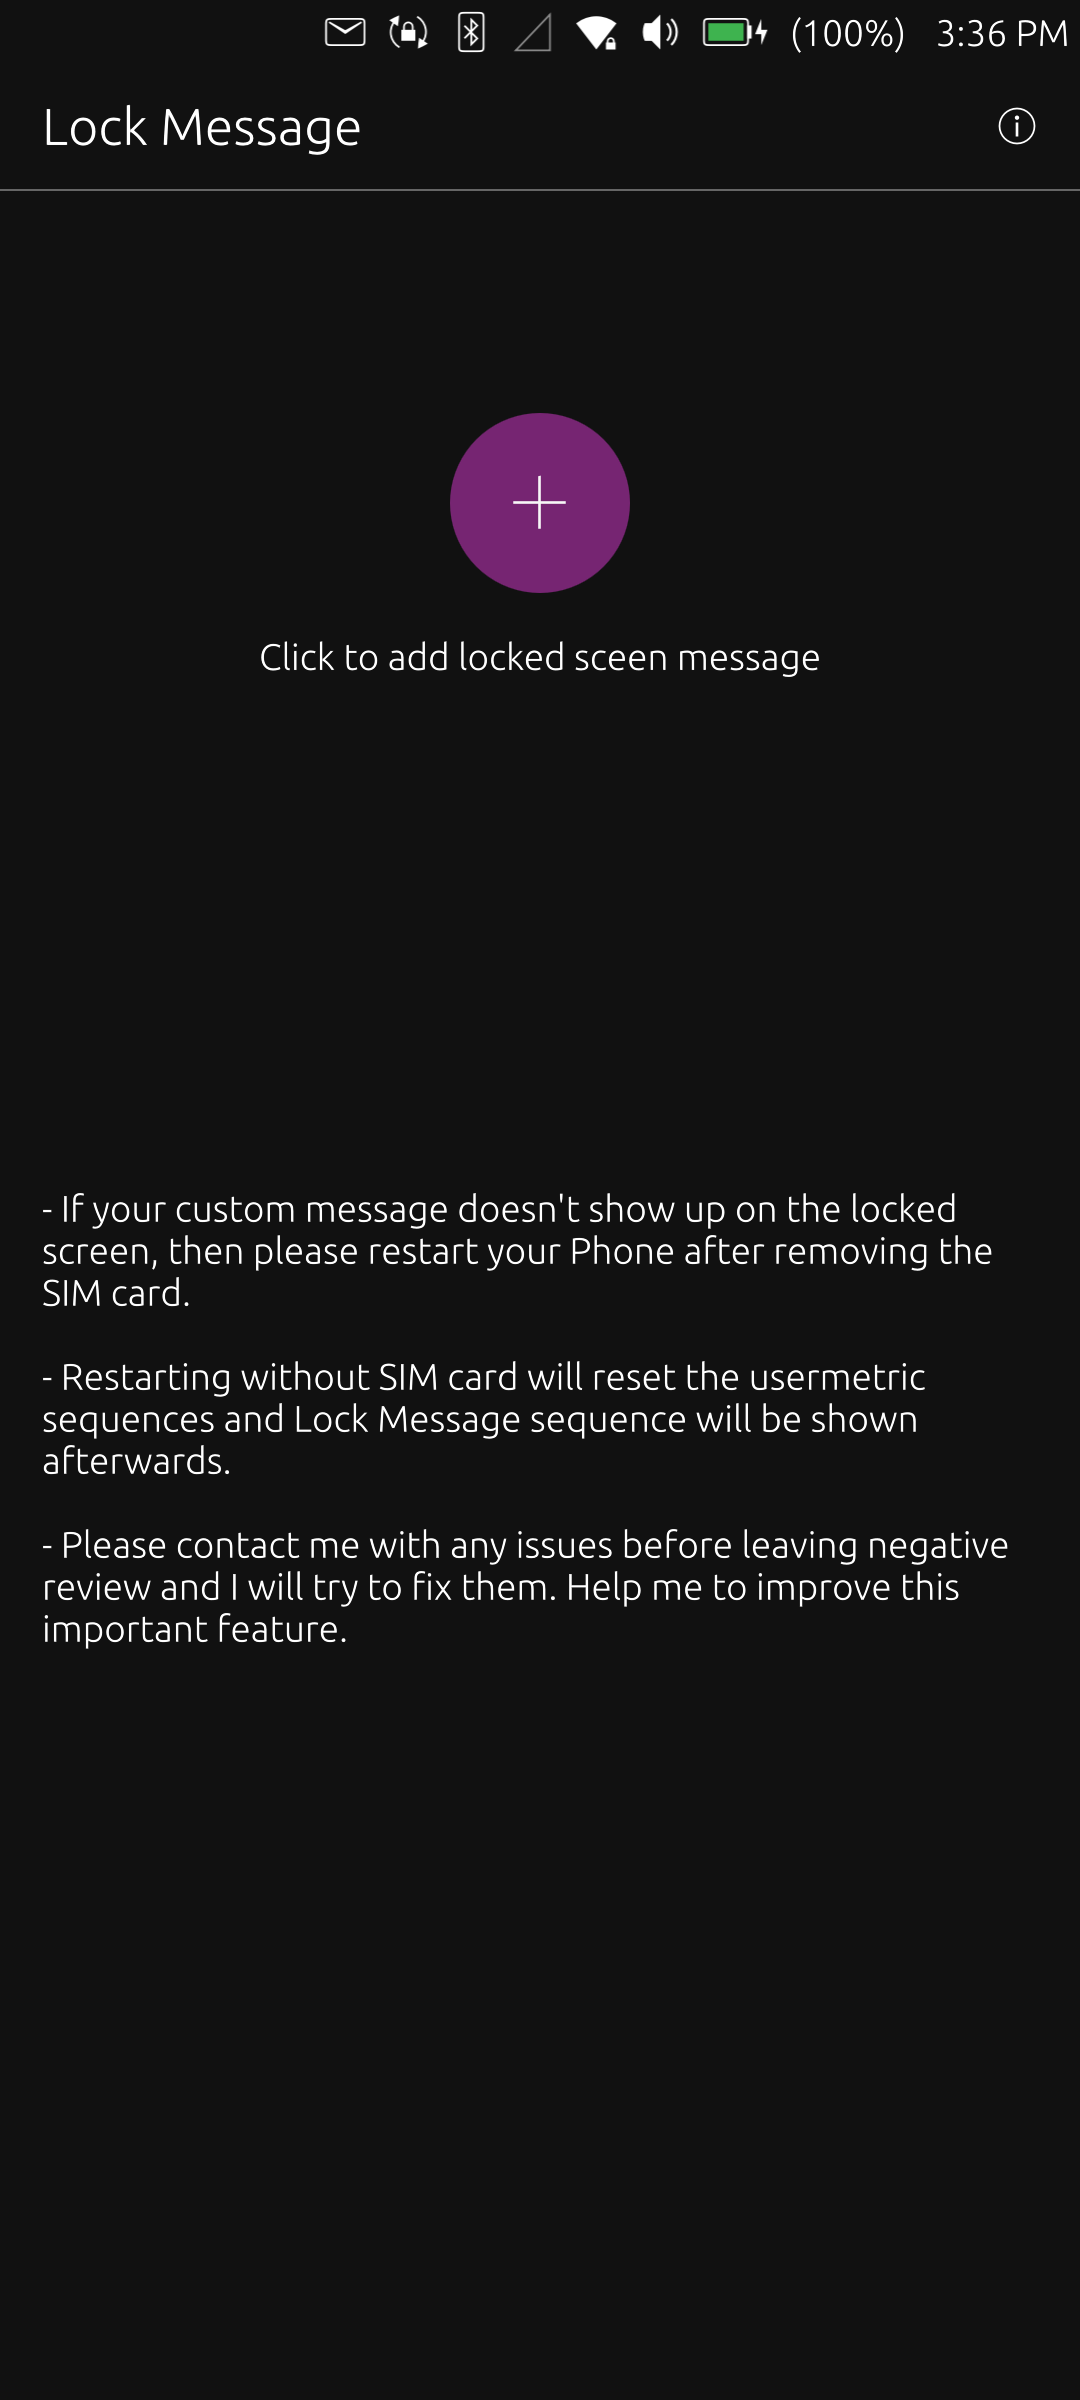
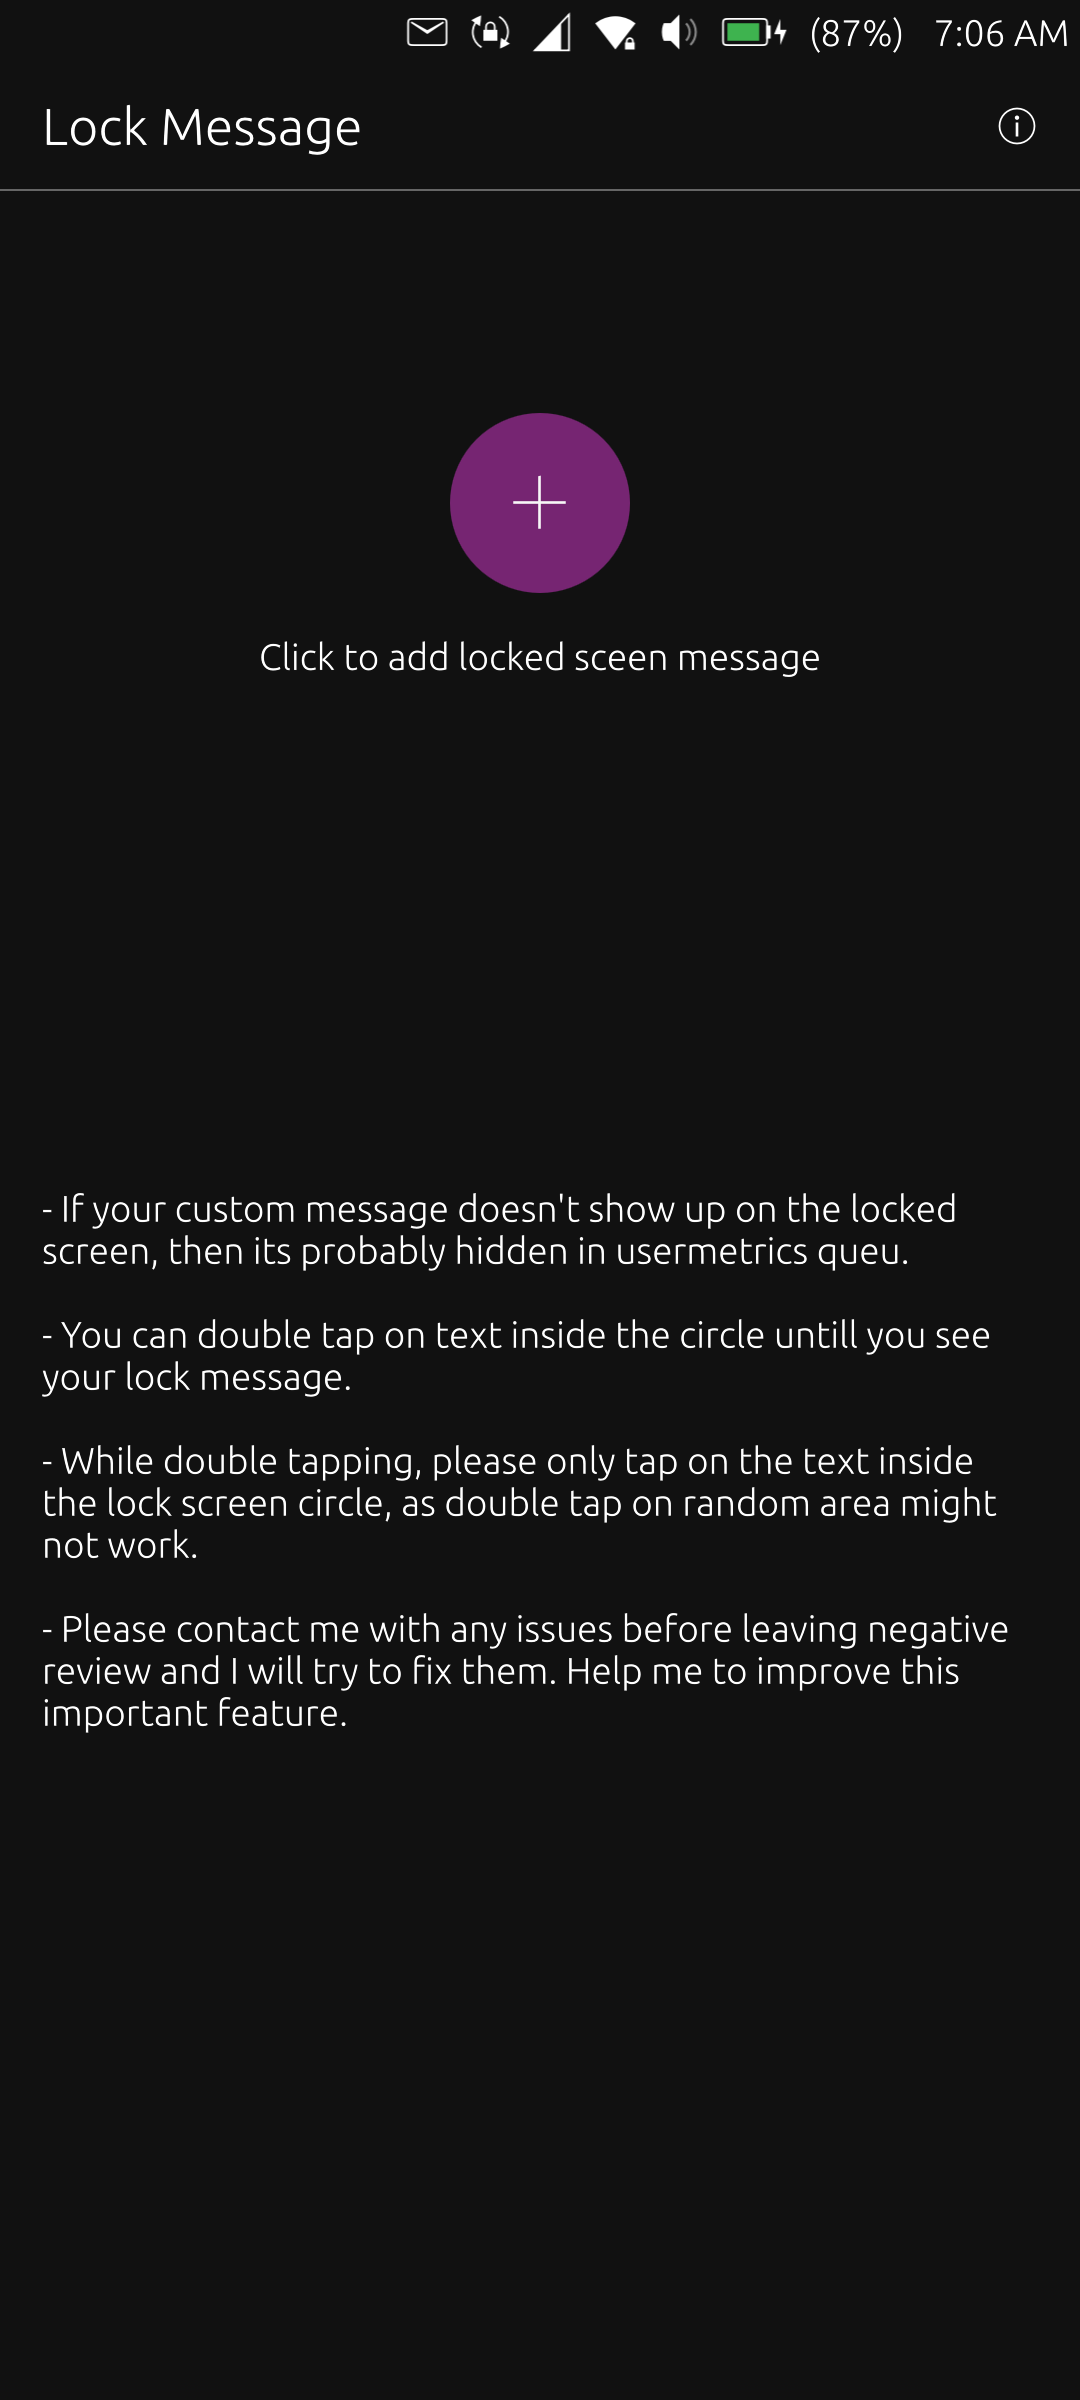
update help content

diff --git a/README.md b/README.md
@@ -10,13 +10,14 @@ We have heavly edited the original version and modified GUI interface. See `git 
 
 ## How to Use?
 
-Install the app from the App Store by following the download link. You will see a circular button with a `+` button in it. Click on it and then add your custom lock message. as shown in the images below. 
+Install the app from the App Store by following the download link. You will see a circular button with a `+` button in it. Click on it and then add your custom lock message as shown in the images below. 
 
 Then click on the green color tick button to add the text. Your custom lock message will be added to the lock screen.
 
-Now check the lock screen of your Ubuntu Phone. You should see your custom lock message there. If you do not see it there, then there may be a display conflict with other user metrics.
+Now check the lock screen of your Ubuntu Phone. You should see your custom lock message there. If you do not see it there, then it is probably hidden in usermetrics queu. 
 
-To clear the other metrics, please restart your mobile phone to clear those metrics. After restart, you should see the custom message on the lock screen circle.
+You can click anywhere on the text inside the circle to toggle the messages untill your locked message is shown up.
+
 
 ## Tests
 
@@ -25,20 +26,6 @@ To clear the other metrics, please restart your mobile phone to clear those metr
 This app helps you write a message that will appear inside Circle on the lock screen. This feature can be useful as you can add custom messages to your UT lock screens.
 
 ![Lock Message Running on Xiaomi Redmi Pro 9 with Ubunut Touch/Liomiri ](assets/composit.png)
-
-## Trouble Shootings
-
-**Question 1: Custom Lock Message is not showing  up on the lcok screen/circl?**
-
-Answer: If your custom message doesn't show up on the locked screen, then please restart your Phone after removing the SIM card.
-
-**Question 2: What happens if you restart Ubunut Touch without SIM Card?**
-
-Answer: Restarting without SIM card will reset the usermetric sequences and Lock Message sequence will be shown afterwards.
-
-**Question 3: Have you noticed unexpected behaviour?**
-
-Please contact me with any issues before leaving negative review and I will try to fix them. Help me to improve this important feature.
 
 
 ## Use Cases
@@ -52,6 +39,11 @@ Some use cases where this can be useful.
 - You can add a custom message for someone who will have custody of your phone e.g. when you are leaving home or if you have temporarily changed the passcode for someone else to log in to your phone.
 
 - ...
+
+## Contact
+
+Please contact me with any issues before leaving negative review and I will try to fix them. Help me to improve this important feature.
+
 
 ## License
 This app is a fork of `Circle Message` created by Michał Prędotka and is available under BSD License. We have kept that old license intact. 
